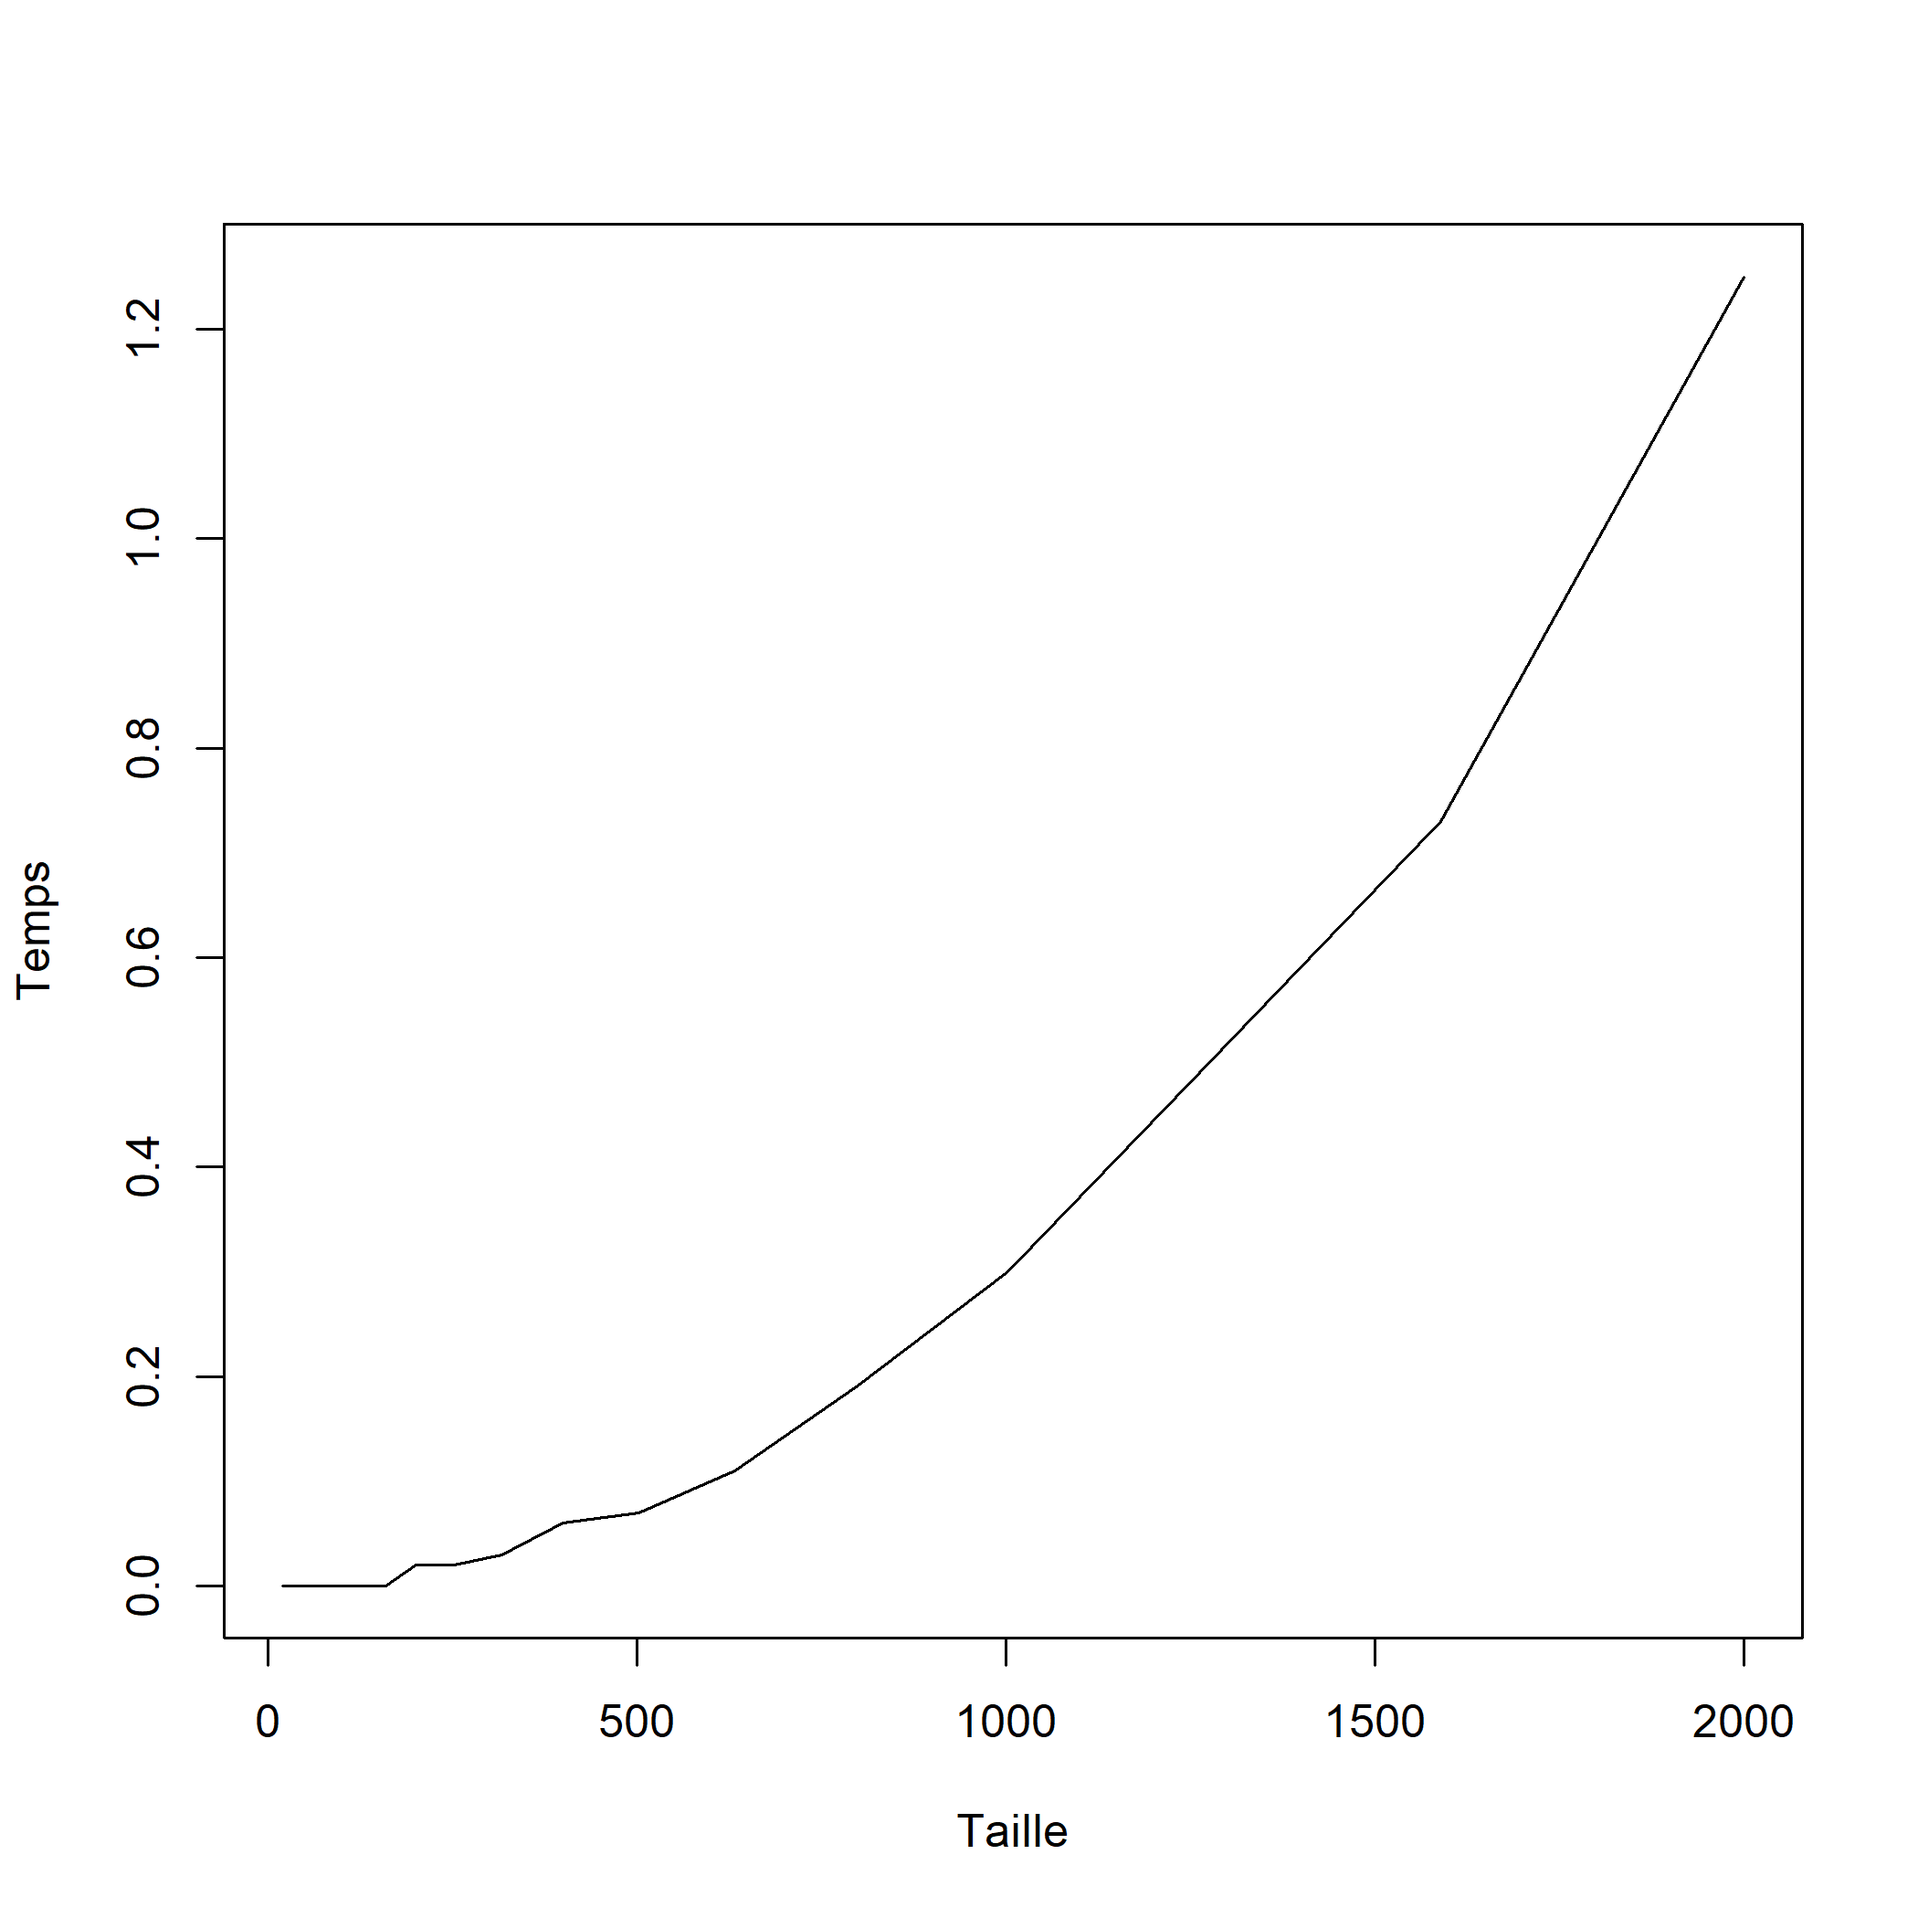
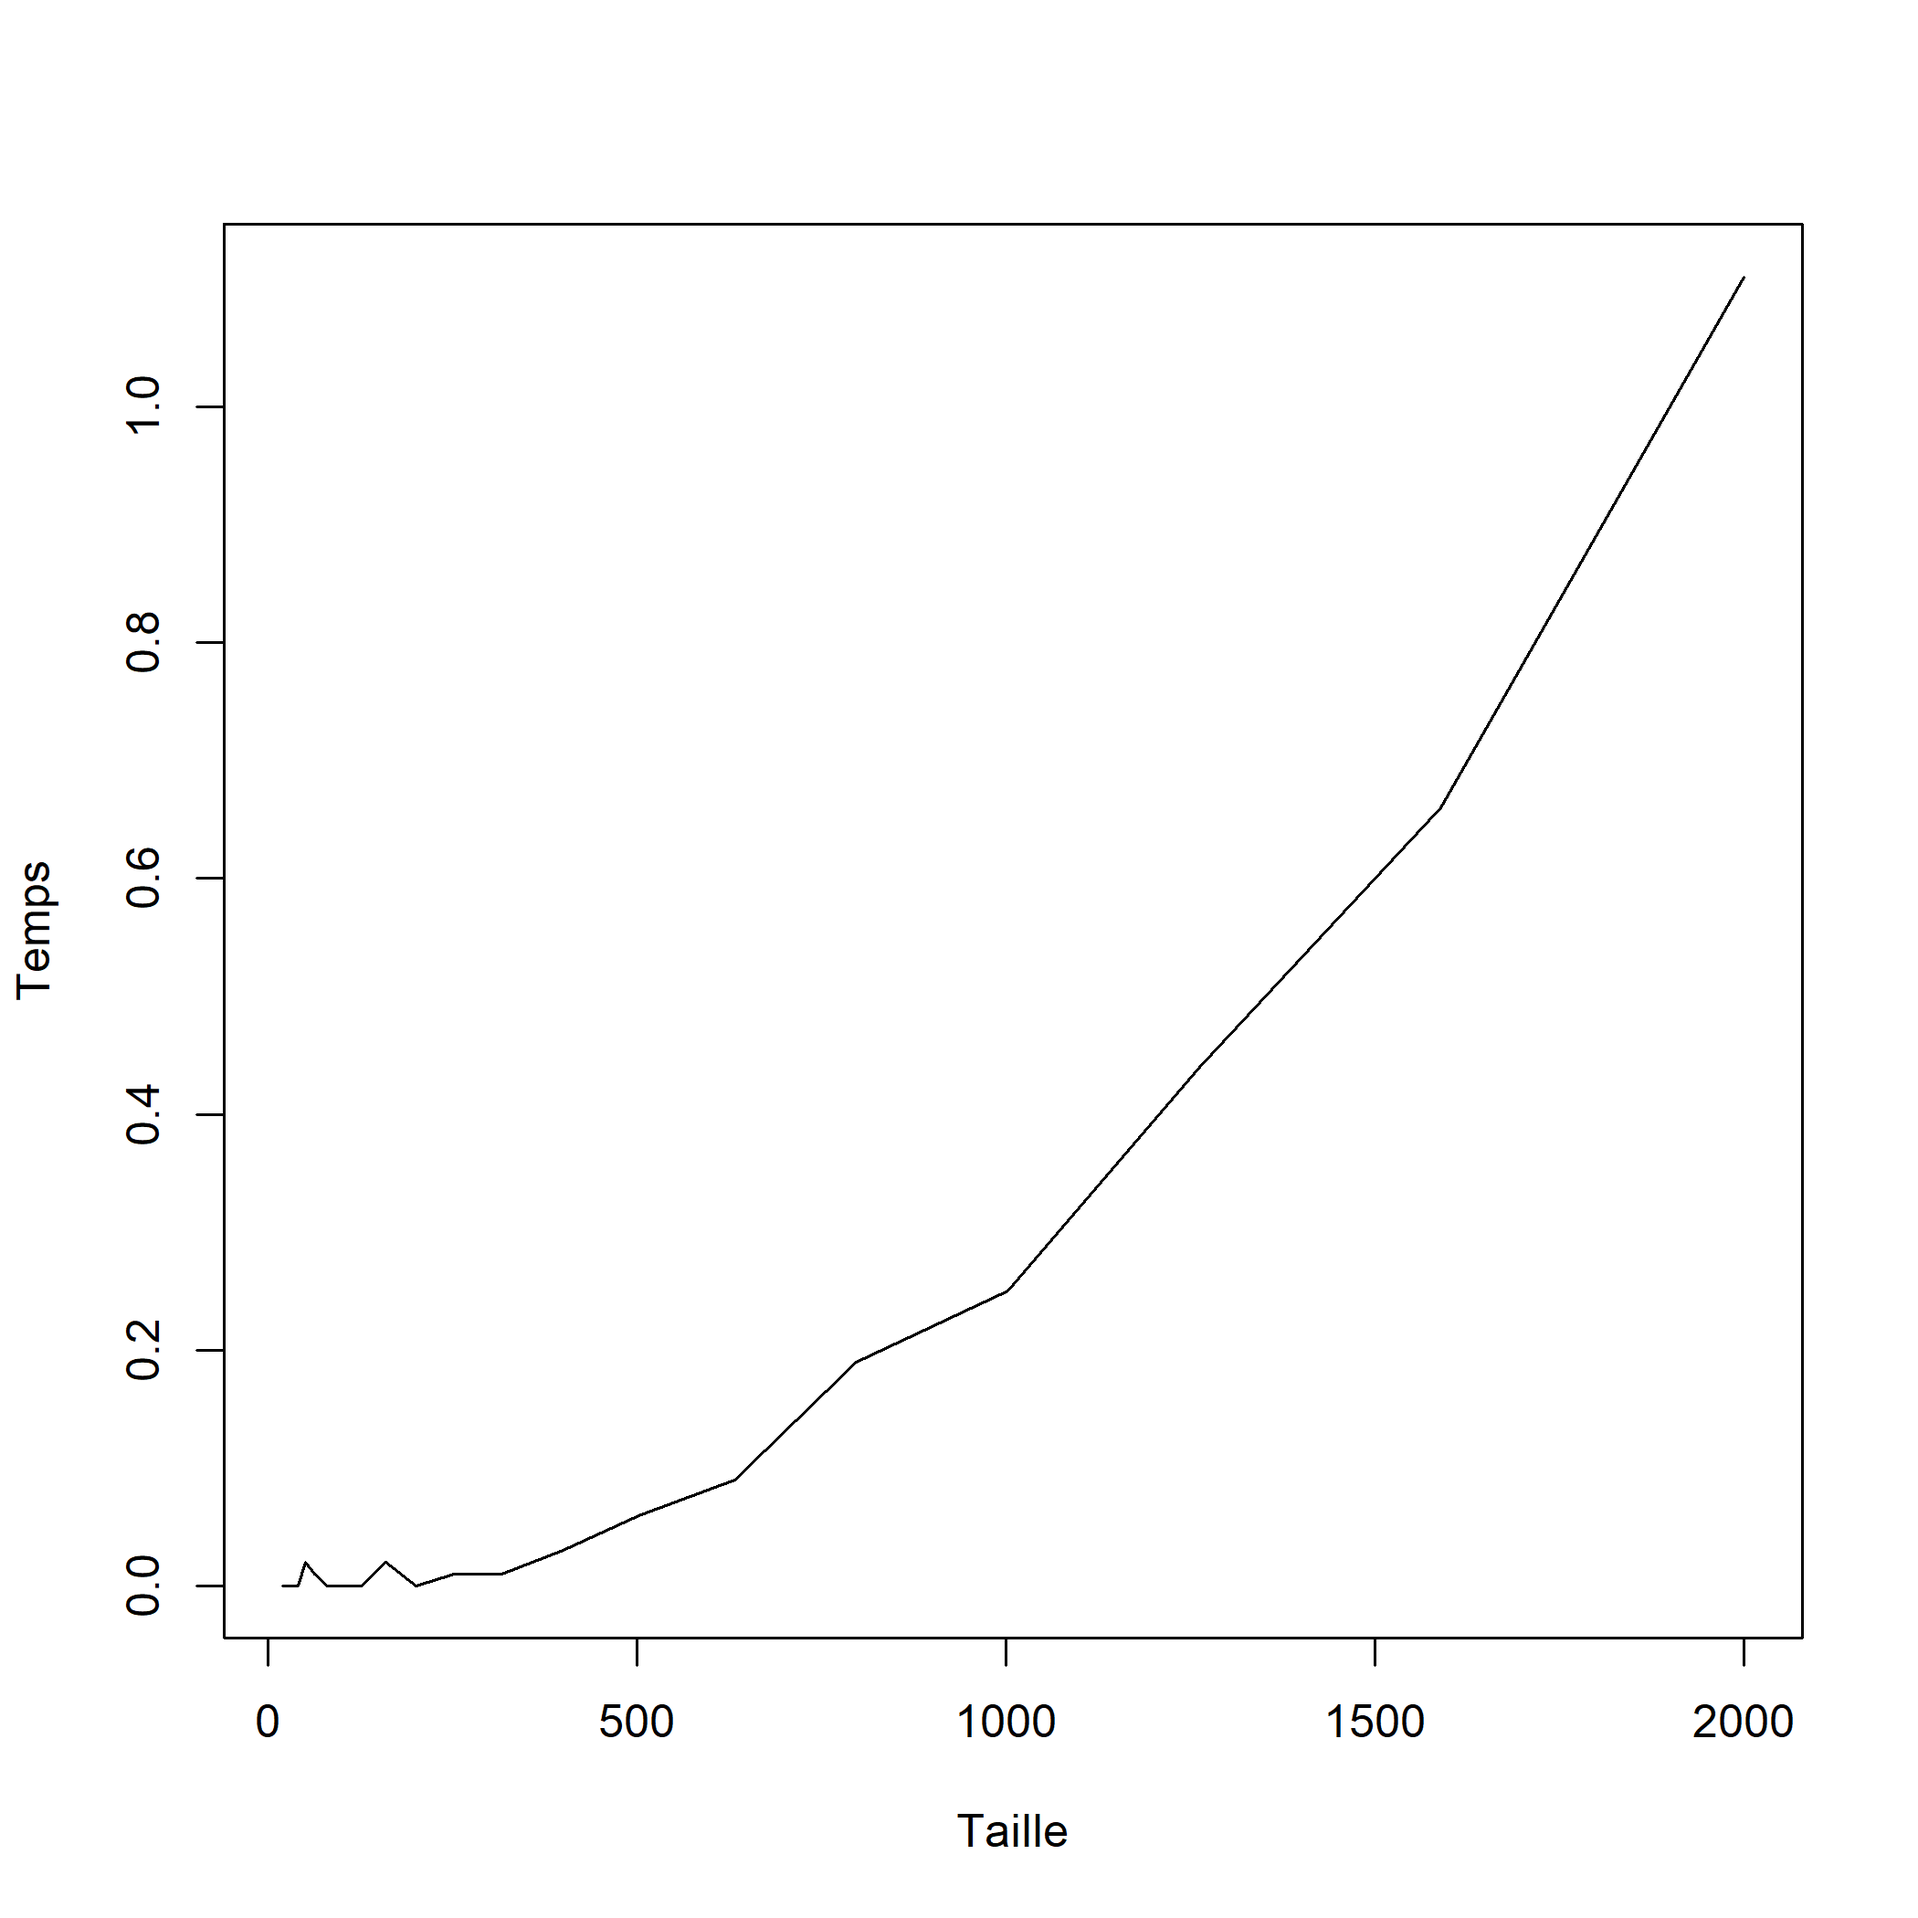
modif cap 6

diff --git a/Atelier_3/index.html b/Atelier_3/index.html
@@ -400,11 +400,11 @@ for(etape in 1:5) {
 ```
 
 ```
-## [1] 0.1762834
-## [1] 0.4653835
-## [1] 0.9113266
-## [1] 0.6457266
-## [1] 0.1192594
+## [1] 0.5004105
+## [1] 0.9718388
+## [1] 0.4749386
+## [1] 0.6997801
+## [1] 0.6936389
 ```
 
 ---
@@ -594,14 +594,14 @@ for(i in 2:n_annees) {
 ---
 # La boucle while
 
-La boucle de type *while* répète une série d'intructions tant qu'une condition n'a pas été atteinte. C'est une version générale de la boucle *for*. Par exemple, on peut tirer deux pièces de monnaie jusqu'à ce que l'on obtienne la combinaison pile-pile.
+La boucle de type *while* répète une série d'intructions tant qu'une condition est respectée. C'est une version générale de la boucle *for*. Par exemple, on peut tirer deux pièces de monnaie jusqu'à ce que l'on obtienne la combinaison pile-pile.
 
 
 ```r
 piece &lt;- c("pile","face")
 combinaison = "face-face"
-while(combinaison != "pile-pile") {
-    essai1 &lt;- sample(piece, 1)
+while(combinaison != "pile-pile") { # (!=)
+    essai1 &lt;- sample(piece, 1)  # OU sample(piece, 2, replace = TRUE)
     essai2 &lt;- sample(piece, 1)
     combinaison &lt;- paste(essai1, "-" , essai2, sep = "")
     print(combinaison)
@@ -610,19 +610,6 @@ while(combinaison != "pile-pile") {
 
 ```
 ## [1] "face-pile"
-## [1] "face-face"
-## [1] "pile-face"
-## [1] "face-pile"
-## [1] "face-face"
-## [1] "face-pile"
-## [1] "face-pile"
-## [1] "face-face"
-## [1] "face-pile"
-## [1] "face-face"
-## [1] "pile-face"
-## [1] "face-face"
-## [1] "pile-face"
-## [1] "face-face"
 ## [1] "pile-pile"
 ```
 
@@ -663,7 +650,7 @@ mean(res)
 ```
 
 ```
-## [1] 6.0126
+## [1] 6.0445
 ```
 
 ---
@@ -917,16 +904,16 @@ cbind(X,res)
 
 ```
 ##       X                    res         
-##  [1,] "0.257429900579154"  "plus petit"
-##  [2,] "0.954370913561434"  "plus grand"
-##  [3,] "0.604091723682359"  "plus grand"
-##  [4,] "0.14386065187864"   "plus petit"
-##  [5,] "0.88443977246061"   "plus grand"
-##  [6,] "0.831927527440712"  "plus grand"
-##  [7,] "0.300069415709004"  "plus grand"
-##  [8,] "0.30131694348529"   "plus grand"
-##  [9,] "0.0642846948467195" "plus petit"
-## [10,] "0.404910633107647"  "plus grand"
+##  [1,] "0.328929497627541"  "plus grand"
+##  [2,] "0.821897872490808"  "plus grand"
+##  [3,] "0.380110898520797"  "plus grand"
+##  [4,] "0.370220892829821"  "plus grand"
+##  [5,] "0.79286849568598"   "plus grand"
+##  [6,] "0.111563452752307"  "plus petit"
+##  [7,] "0.960642525926232"  "plus grand"
+##  [8,] "0.128844490973279"  "plus petit"
+##  [9,] "0.0682619325816631" "plus petit"
+## [10,] "0.79678660701029"   "plus grand"
 ```
 ]
 
@@ -981,16 +968,16 @@ cbind(X,res2)
 
 ```
 ##       X                    res2 
-##  [1,] "0.257429900579154"  "oui"
-##  [2,] "0.954370913561434"  "non"
-##  [3,] "0.604091723682359"  "non"
-##  [4,] "0.14386065187864"   "non"
-##  [5,] "0.88443977246061"   "non"
-##  [6,] "0.831927527440712"  "non"
-##  [7,] "0.300069415709004"  "oui"
-##  [8,] "0.30131694348529"   "oui"
-##  [9,] "0.0642846948467195" "non"
-## [10,] "0.404910633107647"  "oui"
+##  [1,] "0.328929497627541"  "oui"
+##  [2,] "0.821897872490808"  "non"
+##  [3,] "0.380110898520797"  "oui"
+##  [4,] "0.370220892829821"  "oui"
+##  [5,] "0.79286849568598"   "non"
+##  [6,] "0.111563452752307"  "non"
+##  [7,] "0.960642525926232"  "non"
+##  [8,] "0.128844490973279"  "non"
+##  [9,] "0.0682619325816631" "non"
+## [10,] "0.79678660701029"   "non"
 ```
 ]
 
@@ -1017,16 +1004,16 @@ cbind(X,res2)
 
 ```
 ##       X                    res2 
-##  [1,] "0.257429900579154"  "oui"
-##  [2,] "0.954370913561434"  "non"
-##  [3,] "0.604091723682359"  "non"
-##  [4,] "0.14386065187864"   "non"
-##  [5,] "0.88443977246061"   "non"
-##  [6,] "0.831927527440712"  "non"
-##  [7,] "0.300069415709004"  "oui"
-##  [8,] "0.30131694348529"   "oui"
-##  [9,] "0.0642846948467195" "non"
-## [10,] "0.404910633107647"  "oui"
+##  [1,] "0.328929497627541"  "oui"
+##  [2,] "0.821897872490808"  "non"
+##  [3,] "0.380110898520797"  "oui"
+##  [4,] "0.370220892829821"  "oui"
+##  [5,] "0.79286849568598"   "non"
+##  [6,] "0.111563452752307"  "non"
+##  [7,] "0.960642525926232"  "non"
+##  [8,] "0.128844490973279"  "non"
+##  [9,] "0.0682619325816631" "non"
+## [10,] "0.79678660701029"   "non"
 ```
 ]
 
@@ -1140,7 +1127,7 @@ tirage(3, cartes)
 ```
 
 ```
-## [1] "valet - trèfle" "8 - carreau"    "9 - trèfle"
+## [1] "as - coeur" "6 - coeur"  "2 - pique"
 ```
 
 ---
@@ -1167,7 +1154,7 @@ res
 ```
 
 ```
-## [1] S F S I B T F
+## [1] T A S I T N L
 ## Levels: A B C D F G H I J K L M N O P Q R S T U V W X Y Z
 ```
 
@@ -1241,7 +1228,7 @@ rbinom(n = 10, size = 1, prob = 0.5)
 ```
 
 ```
-##  [1] 1 0 1 1 1 0 0 1 1 1
+##  [1] 1 1 0 0 0 1 0 0 0 0
 ```
 ]
 
@@ -1267,8 +1254,8 @@ rmultinom(n = 3, size = 1, prob = rep(1/6, 6))
 ## [1,]    0    0    1
 ## [2,]    1    0    0
 ## [3,]    0    0    0
-## [4,]    0    1    0
-## [5,]    0    0    0
+## [4,]    0    0    0
+## [5,]    0    1    0
 ## [6,]    0    0    0
 ```
 ]
@@ -1769,7 +1756,7 @@ system.time(tri(x))
 
 ```
 ##    user  system elapsed 
-##    0.30    0.00    0.33
+##    0.32    0.00    0.33
 ```
 
 ---
@@ -1829,7 +1816,7 @@ system.time(f1(x))
 
 ```
 ##    user  system elapsed 
-##    0.07    0.00    0.08
+##    0.08    0.00    0.08
 ```
 
 ```r
@@ -1838,7 +1825,7 @@ system.time(f2(x))
 
 ```
 ##    user  system elapsed 
-##       0       0       0
+##    0.01    0.00    0.02
 ```
 ]
 
@@ -1878,9 +1865,9 @@ system.time(f1(X))
 ##    user  system elapsed 
 ##    0.01    0.00    0.01 
 ##    user  system elapsed 
-##    0.14    0.02    0.15 
+##    0.13    0.00    0.13 
 ##    user  system elapsed 
-##    1.01    0.00    1.06
+##    0.97    0.00    0.97
 ```
 ]
 
